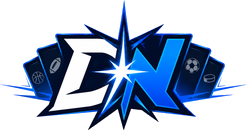
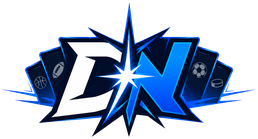
Clean the brand marks properly, and 20 NFL badges
THE FRINGE WAS MINE. The first attempt flood-filled white at a tight
tolerance and cut hard, so the anti-aliased ring where the artwork blends
into its white canvas survived at full opacity and read as a halo. The
second attempt feathered the alpha, which was better and still wrong: a
pixel that is faint white is still white against a dark theme.

Now any pixel that is BOTH near-white AND partially transparent is treated
as canvas rather than artwork and removed outright - 2530 of them in the
lockup. The originals were recovered from the upload commit rather than
re-processed from my own output, so nothing is compounding.

Then the requested white outline, which does double duty: it is a
deliberate crisp edge instead of a dirty one, and it rescues the wordmark.
"DRAFT" is dark navy and was disappearing into a dark background; a 2px
stroke hugging the silhouette makes every letter readable. Built by
dilating the alpha and subtracting the original, so the ring follows the
artwork exactly rather than being a box behind it.

BADGES 11 -> 20, matching basketball's count. The nine new ones are
single-game highs rather than career totals - the same career/best split
basketball uses, so one enormous afternoon is worth chasing as well as
turning up. Thresholds are real football peaks: 400 passing yards is a day
out, 550 is historic.

  Bombs Away · Five Alarm · Metronome · Downhill · Vulture
  Human Joystick · Triple Threat · Larceny · Automatic
[…]

Changed region(s): [[0.0, 0.0, 1.0, 1.0], [0.5668, 0.6769, 0.5951, 0.7077]]

diff --git a/js/badges.js b/js/badges.js
@@ -129,6 +129,100 @@ export const BADGES = [
     value: career("fumbles"),
     thresholds: [8, 35, 100, 240],
   },
+  // ---- FOOTBALL, SINGLE-GAME ----------------------------------------------
+  // The career badges above reward showing up; these reward one enormous
+  // afternoon. Same split basketball already uses, and the thresholds are real
+  // football peaks - 400 passing yards is a genuine day out, 550 is historic.
+  {
+    id: "bombs-away",
+    name: "Bombs Away",
+    sport: "nfl",
+    icon: "💣",
+    blurb: "Most passing yards by one quarterback in a single game",
+    unit: "yards",
+    value: bestInGame("pass_yds"),
+    thresholds: [300, 400, 475, 550],
+  },
+  {
+    id: "five-alarm",
+    name: "Five Alarm",
+    sport: "nfl",
+    icon: "🚨",
+    blurb: "Most passing touchdowns in a single game",
+    unit: "passing TDs",
+    value: bestInGame("pass_tds"),
+    thresholds: [3, 4, 5, 7],
+  },
+  {
+    id: "metronome",
+    name: "Metronome",
+    sport: "nfl",
+    icon: "⏱",
+    blurb: "Most completions in a single game",
+    unit: "completions",
+    value: bestInGame("comp"),
+    thresholds: [25, 30, 36, 45],
+  },
+  {
+    id: "downhill",
+    name: "Downhill",
+    sport: "nfl",
+    icon: "⛰",
+    blurb: "Most rushing yards by one back in a single game",
+    unit: "yards",
+    value: bestInGame("rush_yds"),
+    thresholds: [100, 150, 200, 275],
+  },
+  {
+    id: "vulture",
+    name: "Vulture",
+    sport: "nfl",
+    icon: "🍖",
+    blurb: "Most rushing touchdowns in a single game",
+    unit: "rushing TDs",
+    value: bestInGame("rush_tds"),
+    thresholds: [2, 3, 4, 5],
+  },
+  {
+    id: "human-joystick",
+    name: "Human Joystick",
+    sport: "nfl",
+    icon: "🕹",
+    blurb: "Most receiving yards by one target in a single game",
+    unit: "yards",
+    value: bestInGame("rec_yds"),
+    thresholds: [100, 150, 200, 275],
+  },
+  {
+    id: "triple-threat",
+    name: "Triple Threat",
+    sport: "nfl",
+    icon: "🎪",
+    blurb: "Most receiving touchdowns in a single game",
+    unit: "receiving TDs",
+    value: bestInGame("rec_tds"),
+    thresholds: [2, 3, 4, 5],
+  },
+  {
+    id: "larceny",
+    name: "Larceny",
+    sport: "nfl",
+    icon: "🥷",
+    blurb: "Most interceptions by one unit in a single game",
+    unit: "interceptions",
+    value: bestInGame("ints"),
+    thresholds: [2, 3, 4, 5],
+  },
+  {
+    id: "automatic",
+    name: "Automatic",
+    sport: "nfl",
+    icon: "🎰",
+    blurb: "Most field goals in a single game",
+    unit: "field goals",
+    value: bestInGame("fgs"),
+    thresholds: [3, 4, 5, 7],
+  },
   {
     id: "ice-in-veins",
     name: "Ice In Veins",

diff --git a/index.html b/index.html
@@ -549,6 +549,6 @@
        be stale JS. main.js changes on every deploy; its importees are
        re-fetched because the module graph is revalidated when the entry
        URL changes. Bumped by tools/stamp-build.mjs, which runs on verify. -->
-  <script type="module" src="js/main.js?v=7579c42"></script>
+  <script type="module" src="js/main.js?v=fa28dea"></script>
 </body>
 </html>
